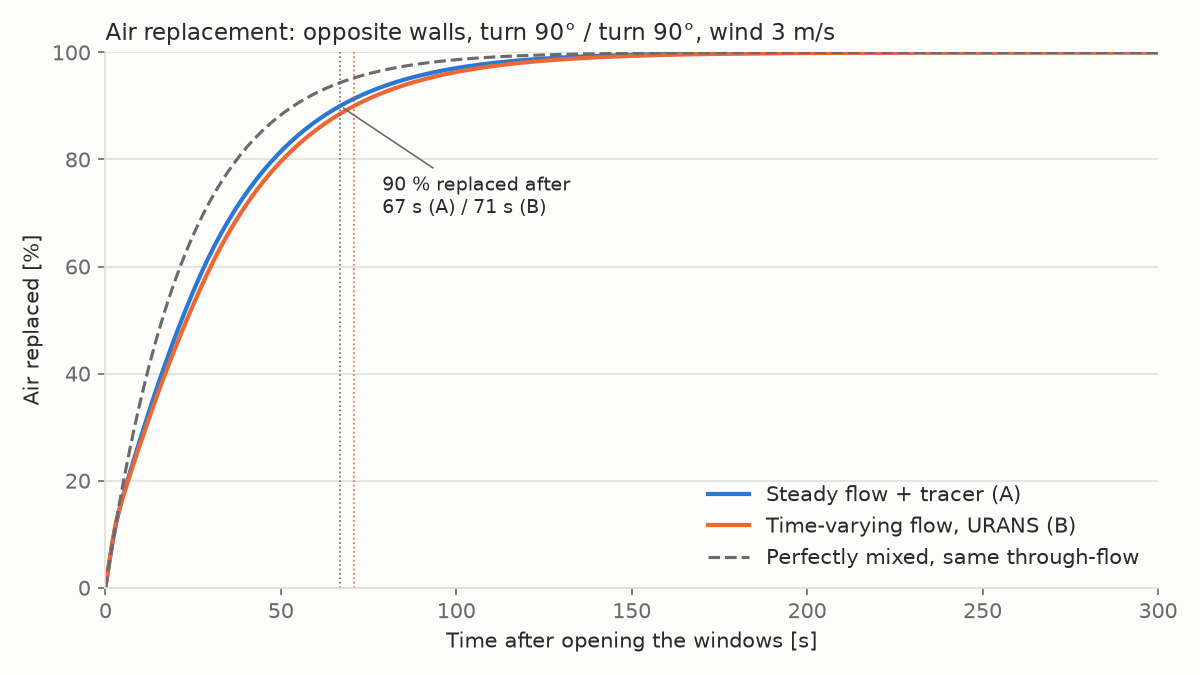
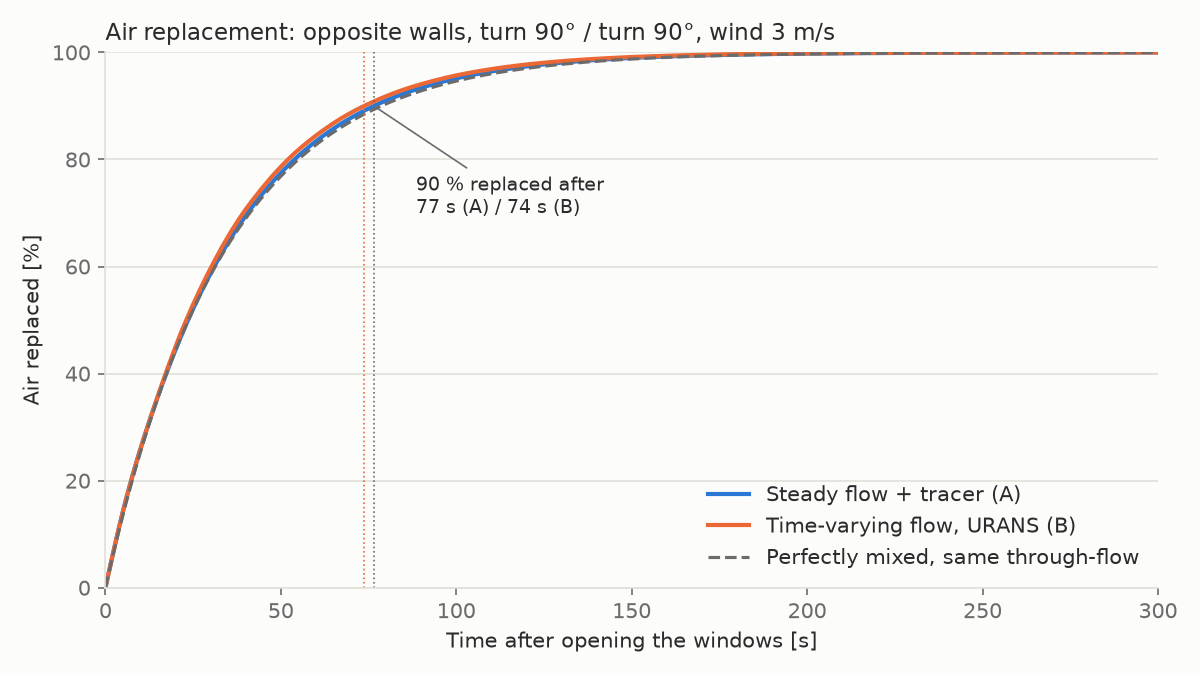
Solver benchmark repeated on the snappy mesh: results, M1 under review

Changed region(s): [[0.0925, 0.0622, 0.7708, 0.8089], [0.3083, 0.2178, 0.4933, 0.3422]]

diff --git a/PLAN.md b/PLAN.md
@@ -104,6 +104,28 @@ Run two options on one coarse `opposite_walls` case and one coarse `same_wall` c
 
 **Decision M1: option A (steady flow + frozen tracer) for the sweep.** It is 25–30× cheaper, and the difference to B (6–12 %) is reported as a known systematic uncertainty of the dataset.
 
+**Repeat on the snappyHexMesh mesh (2026-10-14).** The same two cases and settings as above, on the medium snappy mesh (103k cells, §6). The B runs ran side by side with 4 cores each.
+
+| Case | Method | t90 | τ | Air replaced after 60 s | after 600 s | Window flow | Compute |
+|---|---|---|---|---|---|---|---|
+| opposite walls (default) | A | 76.5 s | 33.5 s | 83.4 % | 100 % | 5,252 m³/h | 3.4 min (8 cores) |
+| | B | 73.8 s (−4 %) | 32.6 s (−3 %) | 84.5 % | 100 % | 5,221 ± 73 m³/h | 48 min* |
+| same wall | A | 581 s | 249 s | 22.1 % | 90.7 % | ≈ 0 (−21 / −4 m³/h) | 3.3 min (8 cores) |
+| | B | 443 s (−24 %) | 190 s (−24 %) | 27.9 % | 95.3 % | 235 ± 150 m³/h, swinging between −650 and +840 | 63 min |
+
+\*Tracer simulated for 330 s only (99.99 % replaced after 300 s).
+
+- **Cross-ventilation: A and B agree within 4 %.** This is closer than on the tetrahedral mesh (6 %), and A is now slightly slower, not faster.
+- **Same wall: A is 24 % slower than B.** The steady solution has almost no flow from one window to the other. In B, the flow through the windows swings strongly, around a stable mean through-flow of about 235 m³/h (100 s block averages 196–296 m³/h). A cannot represent that exchange.
+- **Plausibility:** the single-sided formulas give τ ≈ 210–250 s for single-sided exchange alone, which matches A (249 s). Adding B's 235 m³/h of through-flow gives τ ≈ 180 s, which matches B (190 s).
+- **On the tetrahedral mesh, the same-wall difference had the opposite sign** (A 12 % faster), because that steady solution had a through-flow of 785 m³/h. In weak-flow cases, the steady result depends on which of several steady states the solver ends up in. Those cases carry the largest uncertainty of method A.
+- **Cost of B on this mesh:** two runs side by side each advance about 0.14 simulated s per second. A full case (60 s spin-up and 600 s tracer) takes about 80 min on 4 cores, which is about 40 min per case at two cases at a time. 180 cases would take about 5 days of continuous compute, versus about 15 h for A.
+
+**Decision M1 is under review (team decision).** The decision rule above (B only at ≤ 30 min per case) still points to A. But A's error for weak-flow cases (same wall; probably also tilted windows) is now about 24 %, and those cases make up a large part of the sweep. Options:
+1. Keep A for all cases. Report ±4 % for cross-ventilation and up to −24 % (A too slow) for single-sided cases.
+2. Use B for all cases: about 5 days of compute. B would first need its own short mesh check.
+3. First compare A and B on one or two cases with a tilted window (about 1–1.5 h), then choose between 1 and 2.
+
 ## 6. Checks before the big sweep
 
 - `checkMesh` passes for all 3 layouts × both modes.
@@ -144,7 +166,7 @@ Findings:
   - **Residuals:** about 1e-5 instead of about 1e-3, and the tracer stays exactly within 0…1.
   - **Window flow converges with refinement** (extrapolated ≈ 4,980 m³/h), so medium is about 5 % high.
   - **Decision: `snappyHexMesh` with the medium sizes is the default mesher.** About 5 min per case including the tracer, so 180 cases take about 15 h.
-  - **Note:** the solver benchmark (§5) ran on the old tetrahedral mesh. On the new mesh, the default case's flow is 32 % lower and t90 14 % higher than on that mesh.
+  - **Note:** the first solver benchmark (§5) ran on the old tetrahedral mesh. On the new mesh, the default case's flow is 32 % lower and t90 14 % higher than on that mesh. The benchmark was repeated on the new mesh (§5).
 
 ## 7. Schedule
 
@@ -167,10 +189,10 @@ Findings:
 
 ## 9. Still open / next steps (state 2026-10-14, end of day 1)
 
-**Done:** milestone M1 (solver: option A) and the mesh decision (snappyHexMesh medium). About 5 min per case, 64 MB on disk per case.
+**Done:** the mesh decision (snappyHexMesh medium), about 5 min per case and 64 MB on disk per case. The solver benchmark was repeated on this mesh (§5, 2026-10-14).
 
 Next, in this order:
-1. **Repeat the solver benchmark (§5) on the snappyHexMesh mesh.** The A/B comparison ran on the old tetrahedral mesh. It needs snappy versions of `configs/benchmark/same_wall.yaml` and the default case run with `--transient` (about 2–3 h; overnight is fine).
+1. **Decide M1 again (§5):** method A for all cases, B for all cases, or first one or two more comparisons with a tilted window. Whether B is chosen also changes the sweep's compute time (about 15 h for A, about 5 days for B).
 2. **Sweep generator.** Latin hypercube sampling of the inputs (§2), writing one YAML per case (e.g. `configs/sweep/`). Train set of about 150 and a separate test set of about 30; invalid samples are redrawn and logged.
 3. **Dataset writer:** `results/summary.csv` with the columns of §3, plus `results/timeseries/<case_id>.csv`. Freeze the columns (M2). Still missing from §3: the inputs as columns, `status`/`error_message`, `git_commit`.
 4. **Run the sweep with `cfd.queue`** (detached; `--resume` after interruptions) and watch it with `analysis.monitor`.

diff --git a/README.md b/README.md
@@ -14,7 +14,7 @@ This project runs automated **OpenFOAM** simulations of *Stoßlüften*: opening 
 | Geometry and mesh generator | ✅ |
 | OpenFOAM case: steady wind flow | ✅ first test case runs |
 | Tracer (air replacement) and metrics | ✅ runs on the frozen steady flow |
-| Solver benchmark: comparison with a fully transient run | ✅ steady method chosen (see below) |
+| Solver benchmark: comparison with a fully transient run | ⚠ repeated on the new mesh; method choice under review (see below) |
 | Mesh study | ✅ snappyHexMesh, medium cell sizes (see PLAN.md §6) |
 | Parameter sweep, dataset | planned |
 
@@ -48,12 +48,16 @@ The dataset uses a fast method:
 We compared it with a much more expensive one:
 - **(B)** compute the time-varying flow with the tracer (URANS), about 25–30× slower.
 
-We ran both on two cases: windows on opposite walls, and both windows on the same wall. The second is the hardest case for method A. This benchmark ran on the earlier tetrahedral mesh.
+We ran both on two cases: windows on opposite walls, and both windows on the same wall. The second is the hardest case for method A.
 
 ![Benchmark, opposite walls](docs/images/benchmark_default.png)
 ![Benchmark, same wall](docs/images/benchmark_same_wall.png)
 
-The two methods agree within 6 % (opposite walls) and 12 % (same wall). Method A replaces the air slightly faster. We use method A for the dataset and report this difference as a known uncertainty. Details are in [PLAN.md §5](PLAN.md).
+- **Opposite walls:** the two methods agree within 4 %.
+- **Same wall:** method A is 24 % too slow. In the time-varying flow, air swings in and out of the windows, and on average about 235 m³/h flows from one window to the other. The steady flow has almost none of that.
+- **Cost:** method B costs about 40 min per case, compared with about 5 min for A. That would be about 5 days of compute for the whole sweep instead of about 15 h.
+
+The team still has to decide which method the dataset uses. Details are in [PLAN.md §5](PLAN.md).
 
 ## What is simulated
 

diff --git a/log.md b/log.md
@@ -287,3 +287,15 @@ Template:
   - Started option B (transient) for the default and the same-wall case, in parallel with 4 cores each. As in the first benchmark, the default's tracer phase is cut to 300 s.
   - Added `--transient` to `cfd.queue`, so comparison runs can also be queued and show up in the monitor's queue list. The monitor marks such queues as "transient".
 - **Human decisions / review:** Daniel asked to continue with the benchmark repeat. He asked that the next runs go through the queue so they show up in the monitor, and checked that the work matches PLAN.md §9 step 1.
+
+## 2026-10-14 — Solver benchmark on the snappy mesh: results
+- **Who:** Daniel
+- **AI tool / model:** Claude Code (Claude Opus 5.5)
+- **What the AI did:**
+  - Finished option B for both benchmark cases on the snappy mesh.
+    - Opposite walls: A and B agree within 4 %.
+    - Same wall: A is 24 % too slow (t90 581 s vs 443 s). In B, the flow at the windows swings strongly around a mean through-flow of about 235 m³/h. The steady flow has almost none.
+    - Checked against the single-sided ventilation formulas; both results are plausible for their through-flow.
+  - Wrote the results into PLAN.md §5, set decision M1 to "under review" with three options, and made it the next step in §9. Updated the README benchmark section and its two plots, and the status line in `AGENTS.md`.
+  - Problem found: the script's live shortening of the default run's end time (to 360 s) was ignored. OpenFOAM only re-reads a file whose timestamp is more than 5 s newer than its last read (`fileModificationSkew`), and the edit came 3 s after the start. The run went past 360 s until Daniel noticed. It was then set to 390 s and stopped there.
+- **Human decisions / review:** Daniel noticed the run going over time. The decision on M1 (method A, B, or more comparisons first) is left to the team.

diff --git a/AGENTS.md b/AGENTS.md
@@ -9,7 +9,7 @@ This is a uni project for the Master's course *Machine Learning* (Hochschule Han
 - **Current phase: data generation** (the CFD pipeline). The ML part will be planned later.
 - [PLAN.md](PLAN.md) holds the agreed decisions, dataset columns and schedule. **Read it first.**
 - [VENTILATION_CFD_PROJECT.md](VENTILATION_CFD_PROJECT.md) is the original background spec. PLAN.md wins wherever they differ.
-- Status (2026-10-14): the whole single-case pipeline works and is verified (PLAN.md §5–6): snappyHexMesh mesh, steady flow, frozen tracer, metrics, pictures, run queue and live monitor. **Next: milestone M2/M3, the sweep (input sampling, then `cfd.queue`, then `results/summary.csv`)**; see PLAN.md §9.
+- Status (2026-10-14): the whole single-case pipeline works and is verified (PLAN.md §5–6): snappyHexMesh mesh, steady flow, frozen tracer, metrics, pictures, run queue and live monitor. The solver benchmark was repeated on the new mesh: method A is 24 % off for single-sided cases. **Next: the team decides M1 again (PLAN.md §5), then the sweep (input sampling, `cfd.queue`, `results/summary.csv`)**; see PLAN.md §9.
 - Deadline: less than 6 weeks from 2026-10-14.
 
 ## Environment
